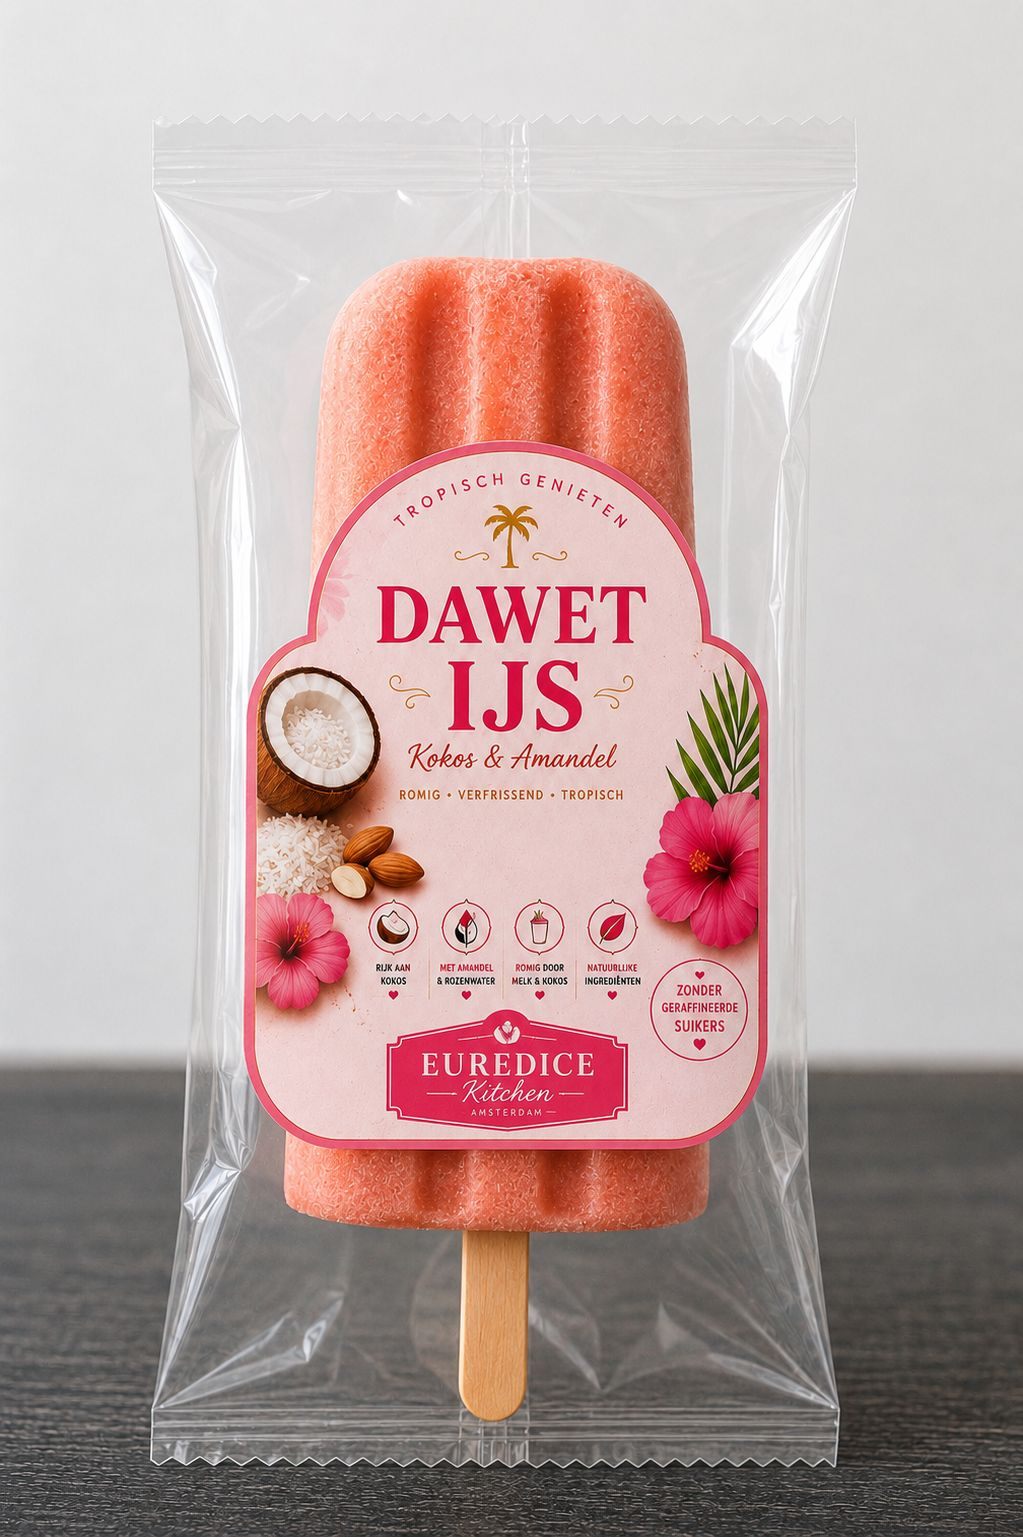
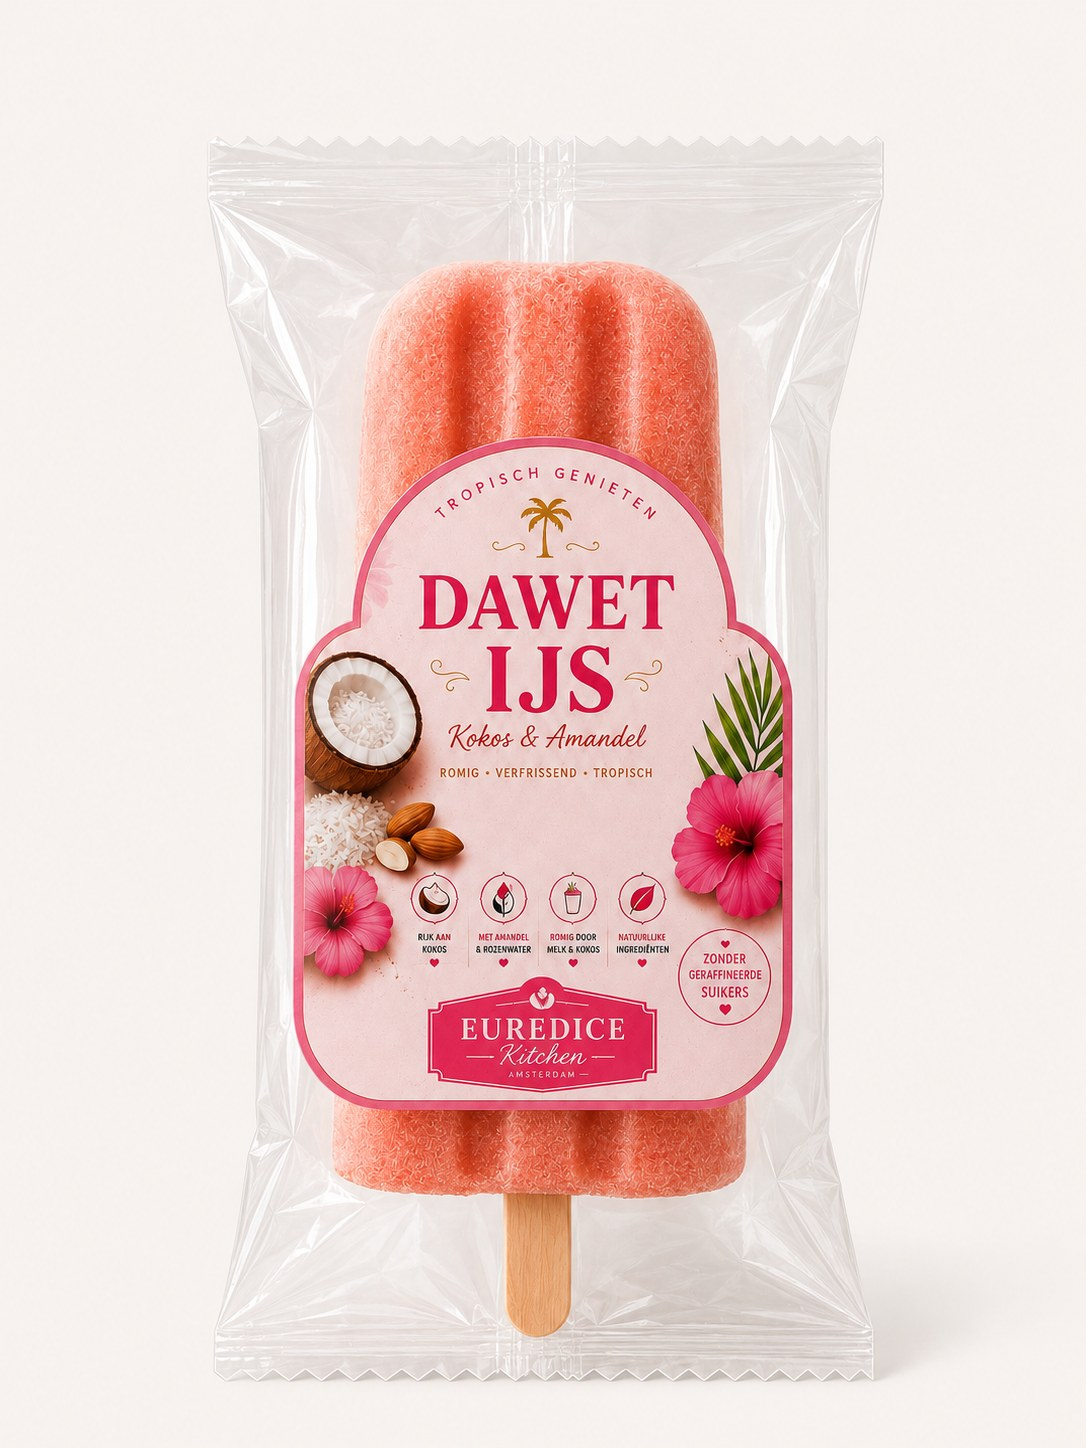
Replace hero packaging photo with new product image

diff --git a/index.html b/index.html
@@ -64,14 +64,14 @@
               <picture>
                 <source
                   type="image/png"
-                  srcset="assets/images/products/verpakking-voorkant.png 1023w">
+                  srcset="assets/images/products/verpakking-voorkant.png 1086w">
                 <img
                   class="hero-product__img"
                   src="assets/images/products/verpakking-voorkant.jpg"
-                  srcset="assets/images/products/verpakking-voorkant.jpg 1023w"
+                  srcset="assets/images/products/verpakking-voorkant.jpg 1086w"
                   sizes="(max-width: 480px) min(90vw, 360px), 420px"
-                  width="1023"
-                  height="1537"
+                  width="1086"
+                  height="1448"
                   alt="Dawet IJs verpakking, kokos en amandel"
                   fetchpriority="high"
                   decoding="async">